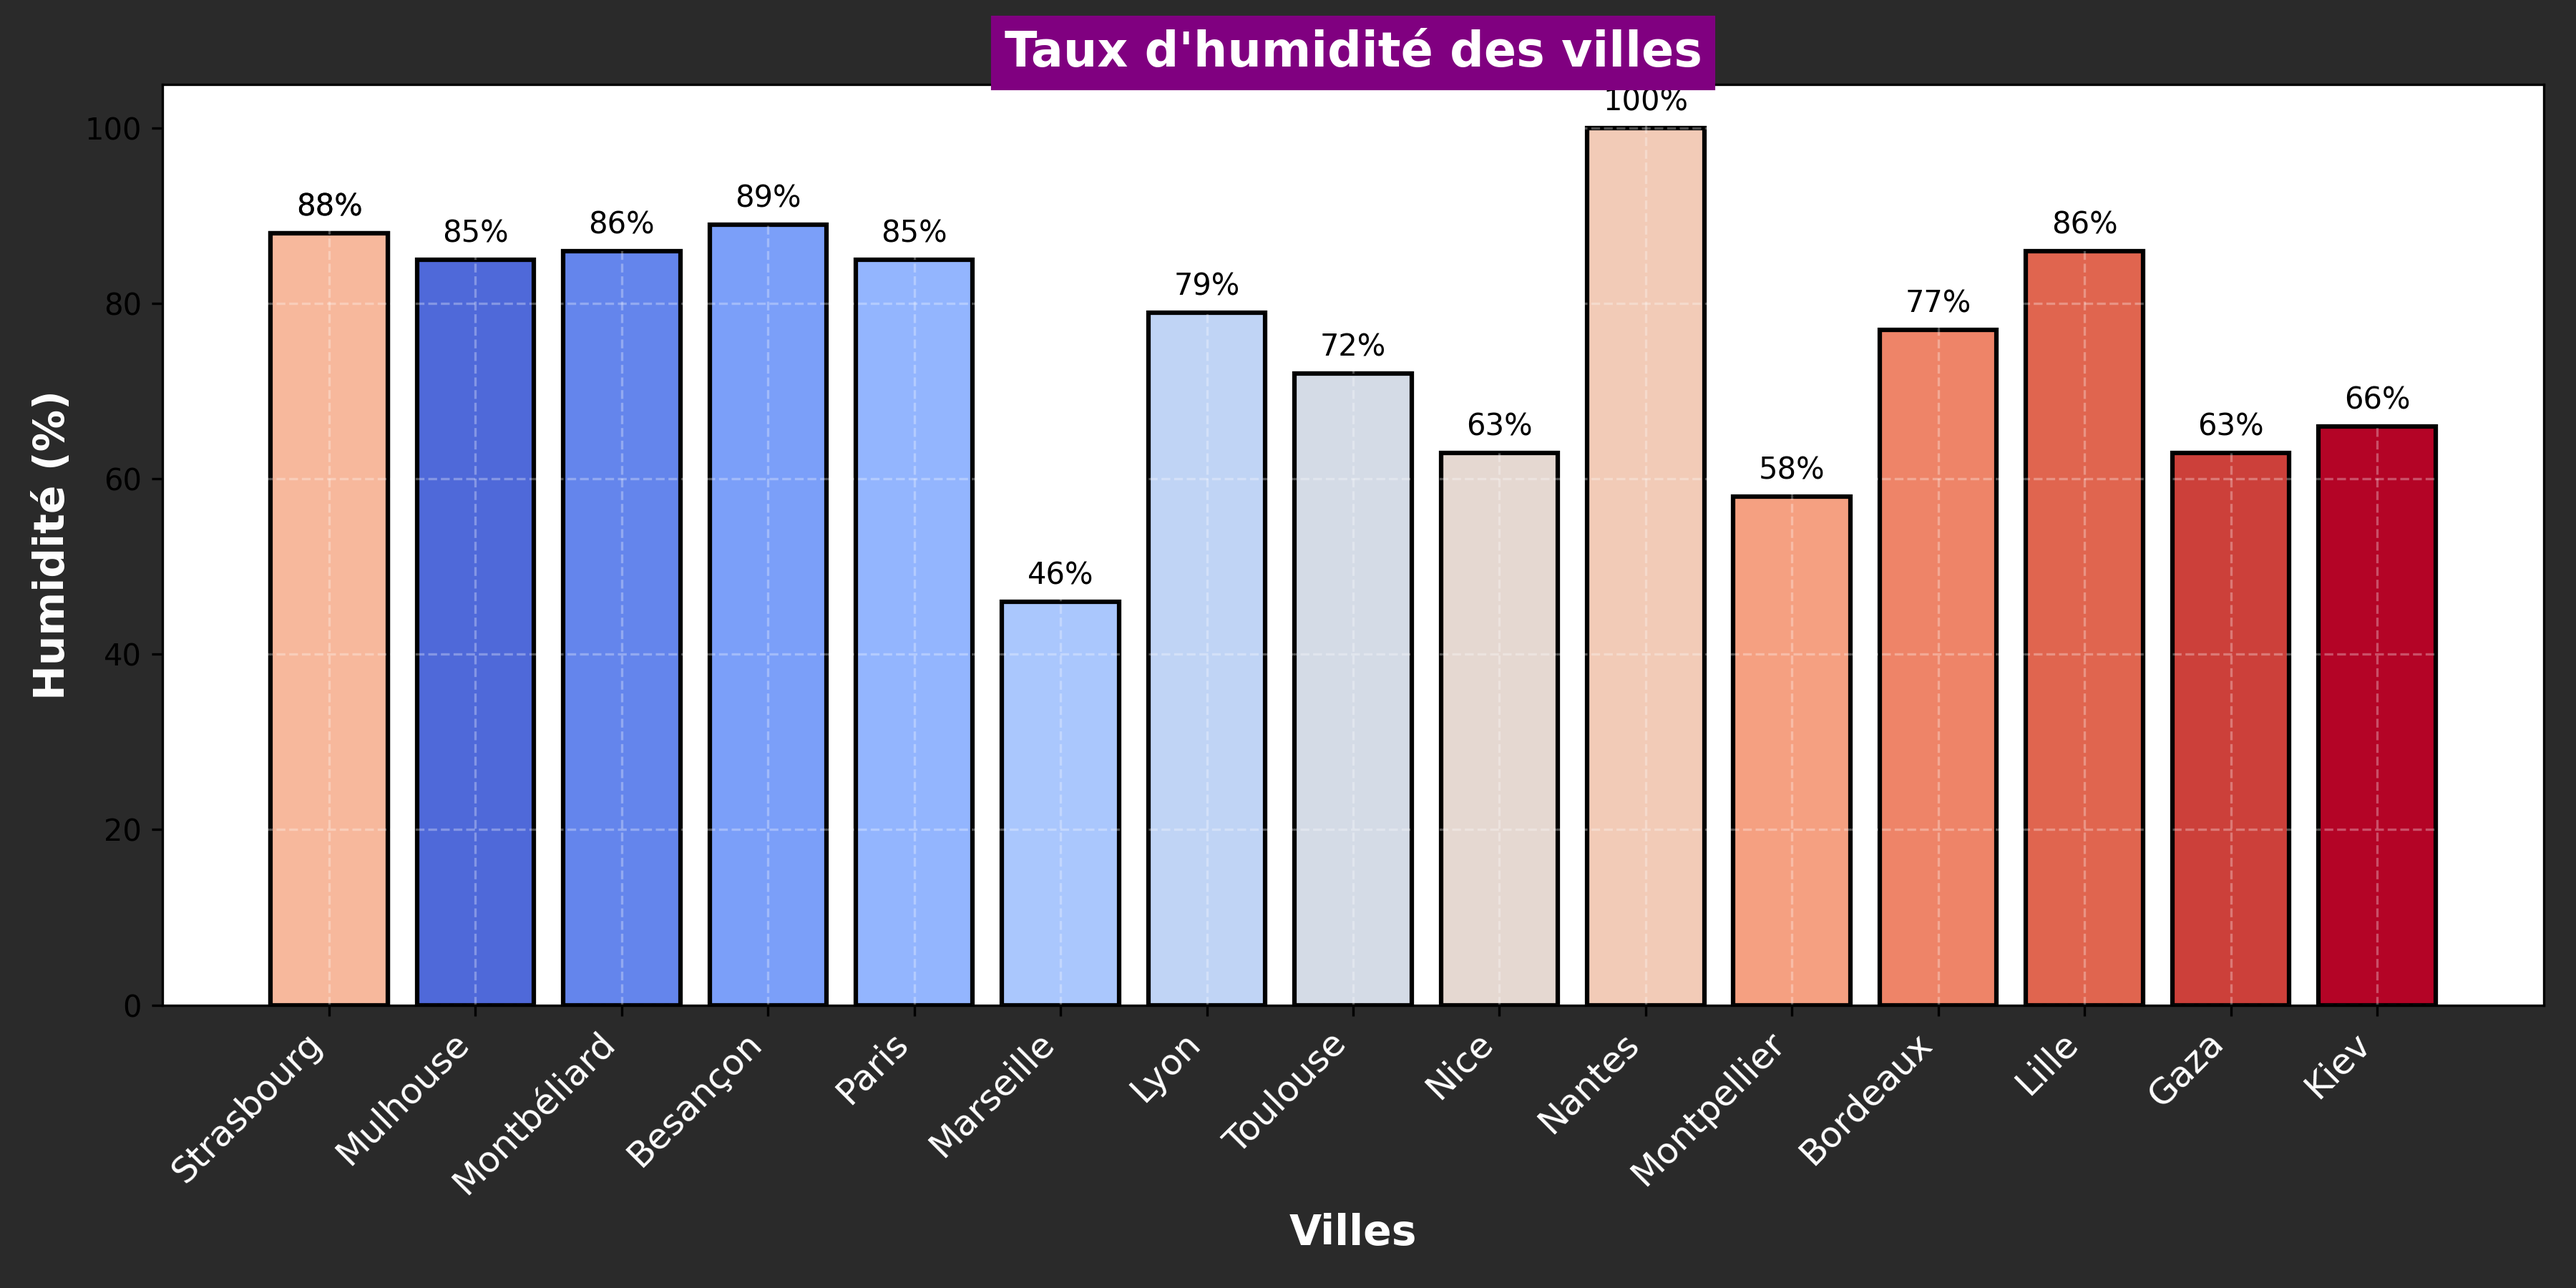
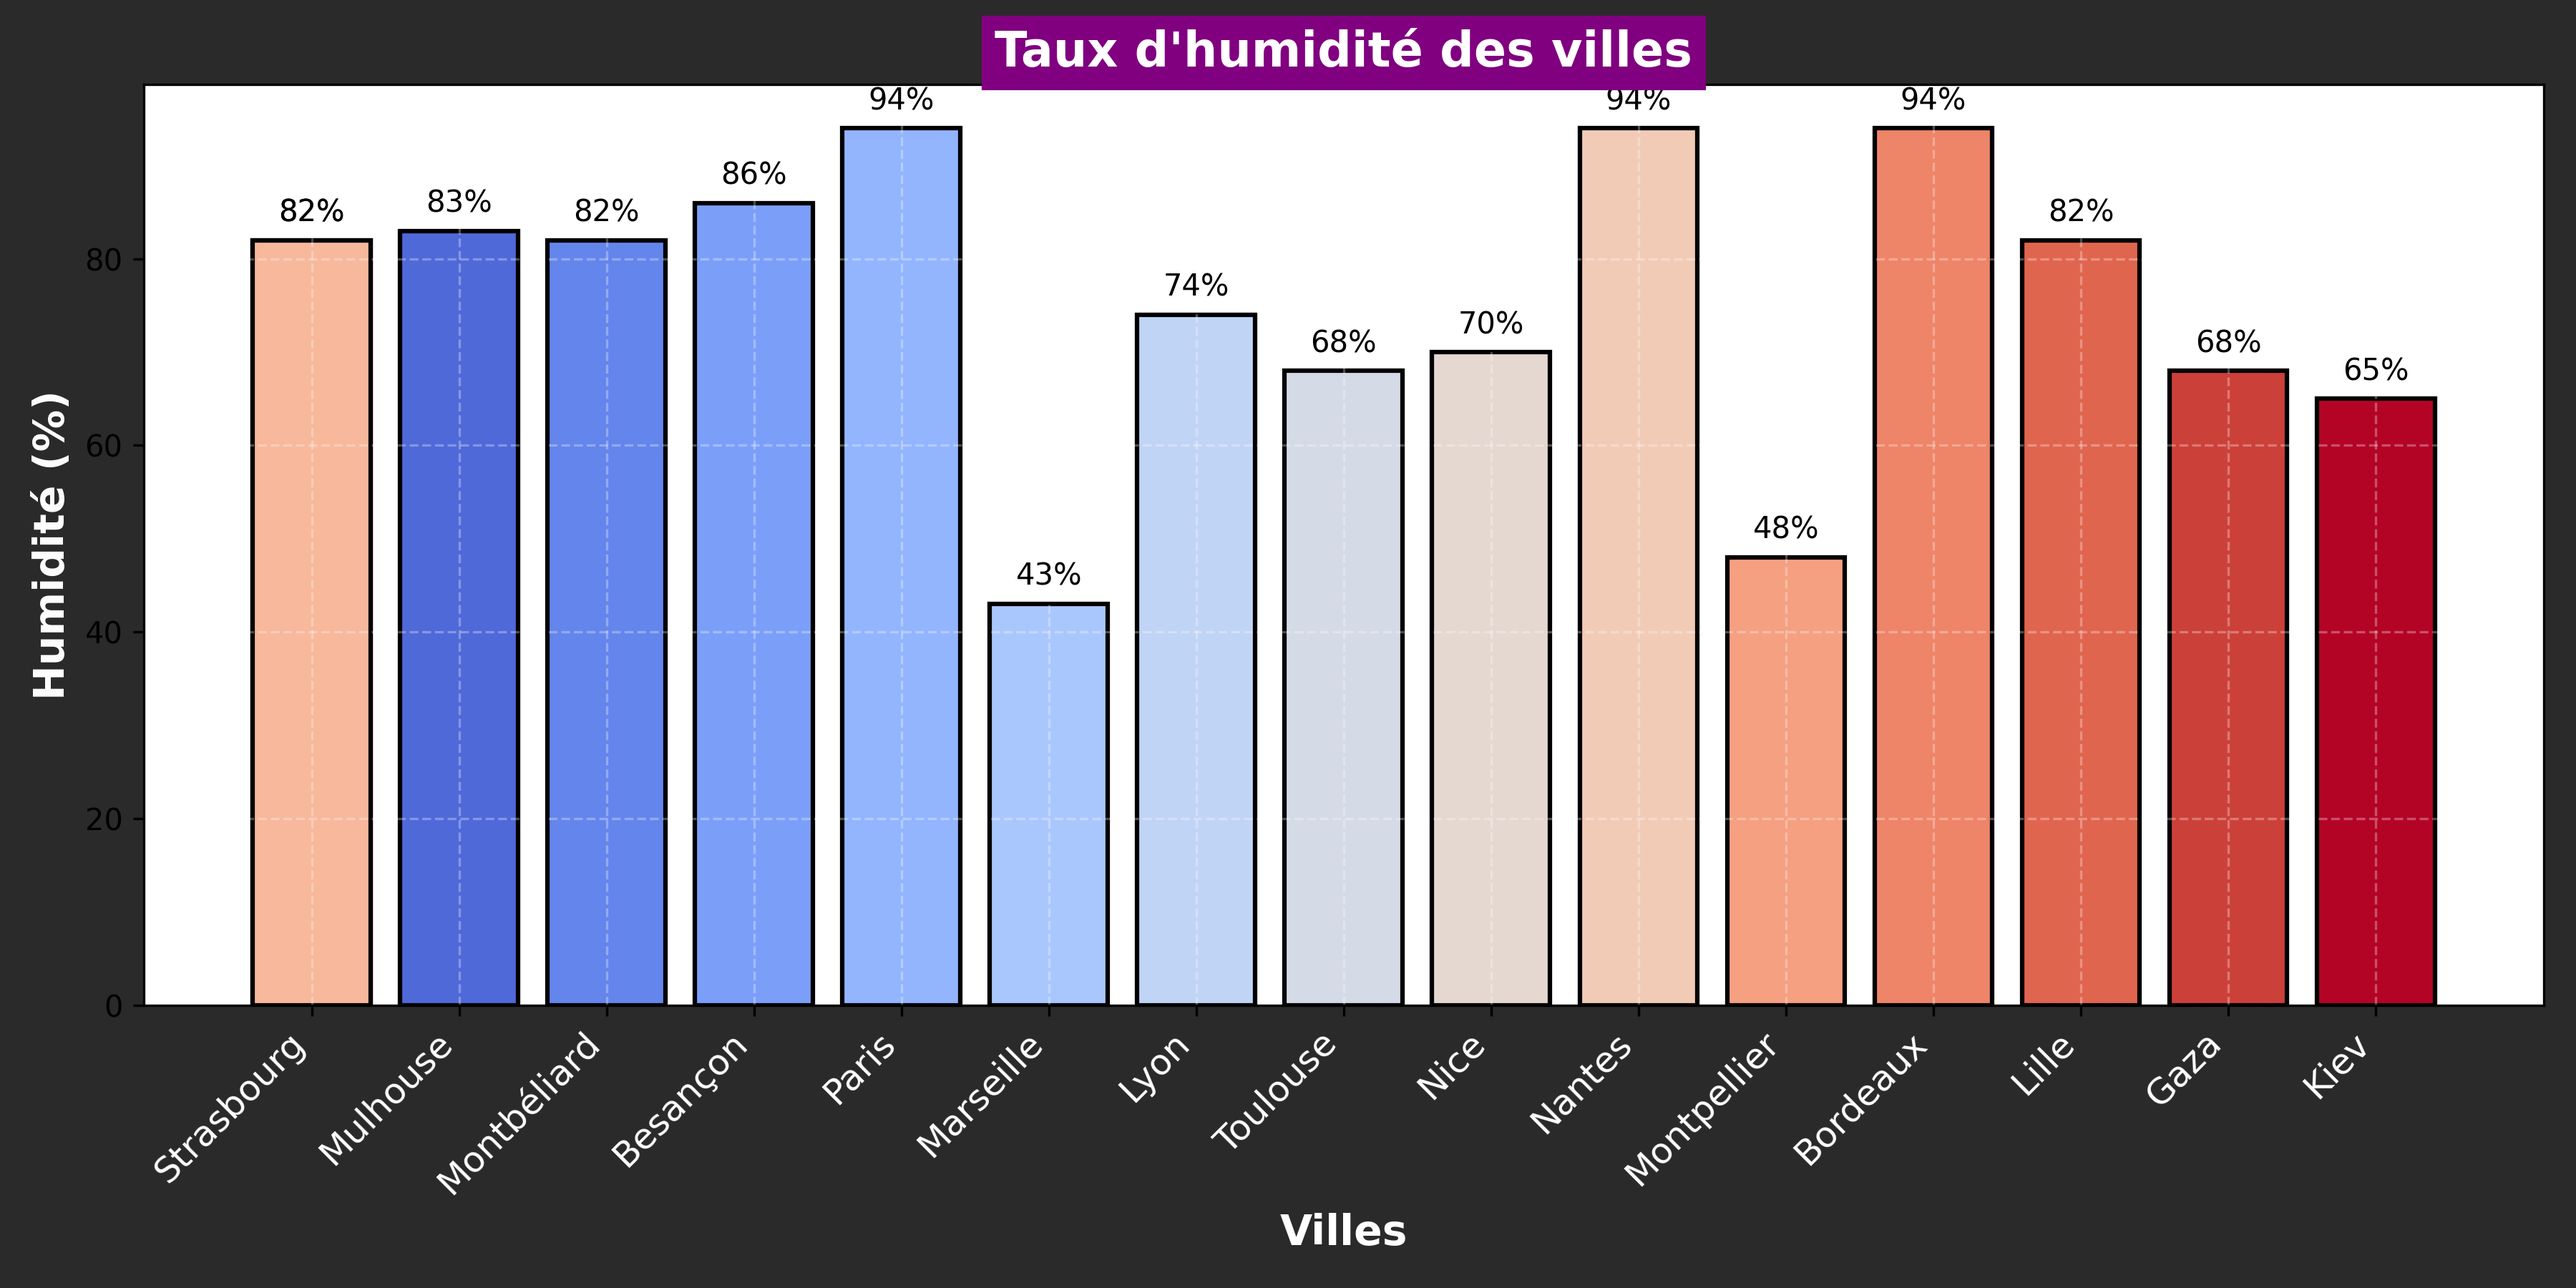
Mise à jour de la météo et ajout du graphique d'humidité

diff --git a/README.md b/README.md
@@ -24,103 +24,103 @@ Ce repo contient plusieurs workflows GitHub Actions :
 ## Météo actuelle :
 ## Météo des grandes villes + Gaza et Kiev 🌍
 
-🕒 Mise à jour : 04/08/2025 08:26:26
+🕒 Mise à jour : 05/08/2025 08:22:08
 
-### 🌍 Strasbourg 🌥
-**Conditions :** couvert
-**Température :** 15.06°C
-**Humidité :** 88%
-**Vent :** 1.54 m/s
+### 🌍 Strasbourg 🌧
+**Conditions :** pluie modérée
+**Température :** 18.95°C
+**Humidité :** 82%
+**Vent :** 4.12 m/s
 
 ### 🌍 Mulhouse ☀
 **Conditions :** ciel dégagé
-**Température :** 14.52°C
-**Humidité :** 85%
-**Vent :** 2.57 m/s
+**Température :** 17.81°C
+**Humidité :** 83%
+**Vent :** 2.06 m/s
 
 ### 🌍 Montbéliard 🌥
-**Conditions :** couvert
-**Température :** 17.77°C
-**Humidité :** 86%
-**Vent :** 1.14 m/s
+**Conditions :** partiellement nuageux
+**Température :** 19.43°C
+**Humidité :** 82%
+**Vent :** 1.23 m/s
 
 ### 🌍 Besançon 🌥
-**Conditions :** couvert
-**Température :** 14.39°C
-**Humidité :** 89%
-**Vent :** 0.9 m/s
+**Conditions :** partiellement nuageux
+**Température :** 16.89°C
+**Humidité :** 86%
+**Vent :** 1.39 m/s
 
 ### 🌍 Paris 🌥
 **Conditions :** couvert
-**Température :** 19.08°C
-**Humidité :** 85%
-**Vent :** 3.09 m/s
+**Température :** 17.21°C
+**Humidité :** 94%
+**Vent :** 4.12 m/s
 
 ### 🌍 Marseille 🌥
-**Conditions :** nuageux
+**Conditions :** partiellement nuageux
 **Température :** 20.84°C
-**Humidité :** 46%
-**Vent :** 2.23 m/s
+**Humidité :** 43%
+**Vent :** 0.84 m/s
 
 ### 🌍 Lyon 🌥
-**Conditions :** couvert
-**Température :** 13.35°C
-**Humidité :** 79%
-**Vent :** 1.14 m/s
-
-### 🌍 Toulouse 🌥
 **Conditions :** peu nuageux
-**Température :** 15.99°C
-**Humidité :** 72%
-**Vent :** 1.54 m/s
+**Température :** 18.51°C
+**Humidité :** 74%
+**Vent :** 1.25 m/s
+
+### 🌍 Toulouse ☀
+**Conditions :** ciel dégagé
+**Température :** 19.99°C
+**Humidité :** 68%
+**Vent :** 4.12 m/s
 
 ### 🌍 Nice 🌥
-**Conditions :** couvert
-**Température :** 17.5°C
-**Humidité :** 63%
-**Vent :** 1.52 m/s
+**Conditions :** peu nuageux
+**Température :** 16.94°C
+**Humidité :** 70%
+**Vent :** 0.4 m/s
 
 ### 🌍 Nantes ☀
 **Conditions :** ciel dégagé
-**Température :** 14.96°C
-**Humidité :** 100%
-**Vent :** 0 m/s
-
-### 🌍 Strasbourg 🌥
-**Conditions :** couvert
-**Température :** 15.06°C
-**Humidité :** 88%
+**Température :** 15.96°C
+**Humidité :** 94%
 **Vent :** 1.54 m/s
+
+### 🌍 Strasbourg 🌧
+**Conditions :** pluie modérée
+**Température :** 18.95°C
+**Humidité :** 82%
+**Vent :** 4.12 m/s
 
 ### 🌍 Montpellier ☀
 **Conditions :** ciel dégagé
-**Température :** 19.16°C
-**Humidité :** 58%
+**Température :** 23.05°C
+**Humidité :** 48%
 **Vent :** 1.54 m/s
 
-### 🌍 Bordeaux ☀
-**Conditions :** ciel dégagé
-**Température :** 17.15°C
-**Humidité :** 77%
-**Vent :** 0 m/s
-
-### 🌍 Lille 🌥
+### 🌍 Bordeaux 🌥
 **Conditions :** couvert
-**Température :** 18.93°C
-**Humidité :** 86%
-**Vent :** 5.14 m/s
+**Température :** 17.15°C
+**Humidité :** 94%
+**Vent :** 2.57 m/s
+
+### 🌍 Lille ☀
+**Conditions :** ciel dégagé
+**Température :** 16.79°C
+**Humidité :** 82%
+**Vent :** 3.6 m/s
 
 ### 🌍 Gaza ☀
 **Conditions :** ciel dégagé
-**Température :** 28.23°C
-**Humidité :** 63%
-**Vent :** 1.37 m/s
+**Température :** 27.87°C
+**Humidité :** 68%
+**Vent :** 2.23 m/s
 
-### 🌍 Kiev 🌥
-**Conditions :** peu nuageux
+### 🌍 Kiev ☀
+**Conditions :** ciel dégagé
 **Température :** 20.9°C
-**Humidité :** 66%
-**Vent :** 1.93 m/s
+**Humidité :** 65%
+**Vent :** 2.93 m/s
 
 <p align='center'><img src='https://raw.githubusercontent.com/khoa083/khoa/main/Khoa_ne/img/Rainbow.gif' width='100%' style='border-radius: 5px; border: 3px solid #39FF14; box-shadow: 0 0 10px #39FF14, 0 0 20px #39FF14;' /></p>
 
